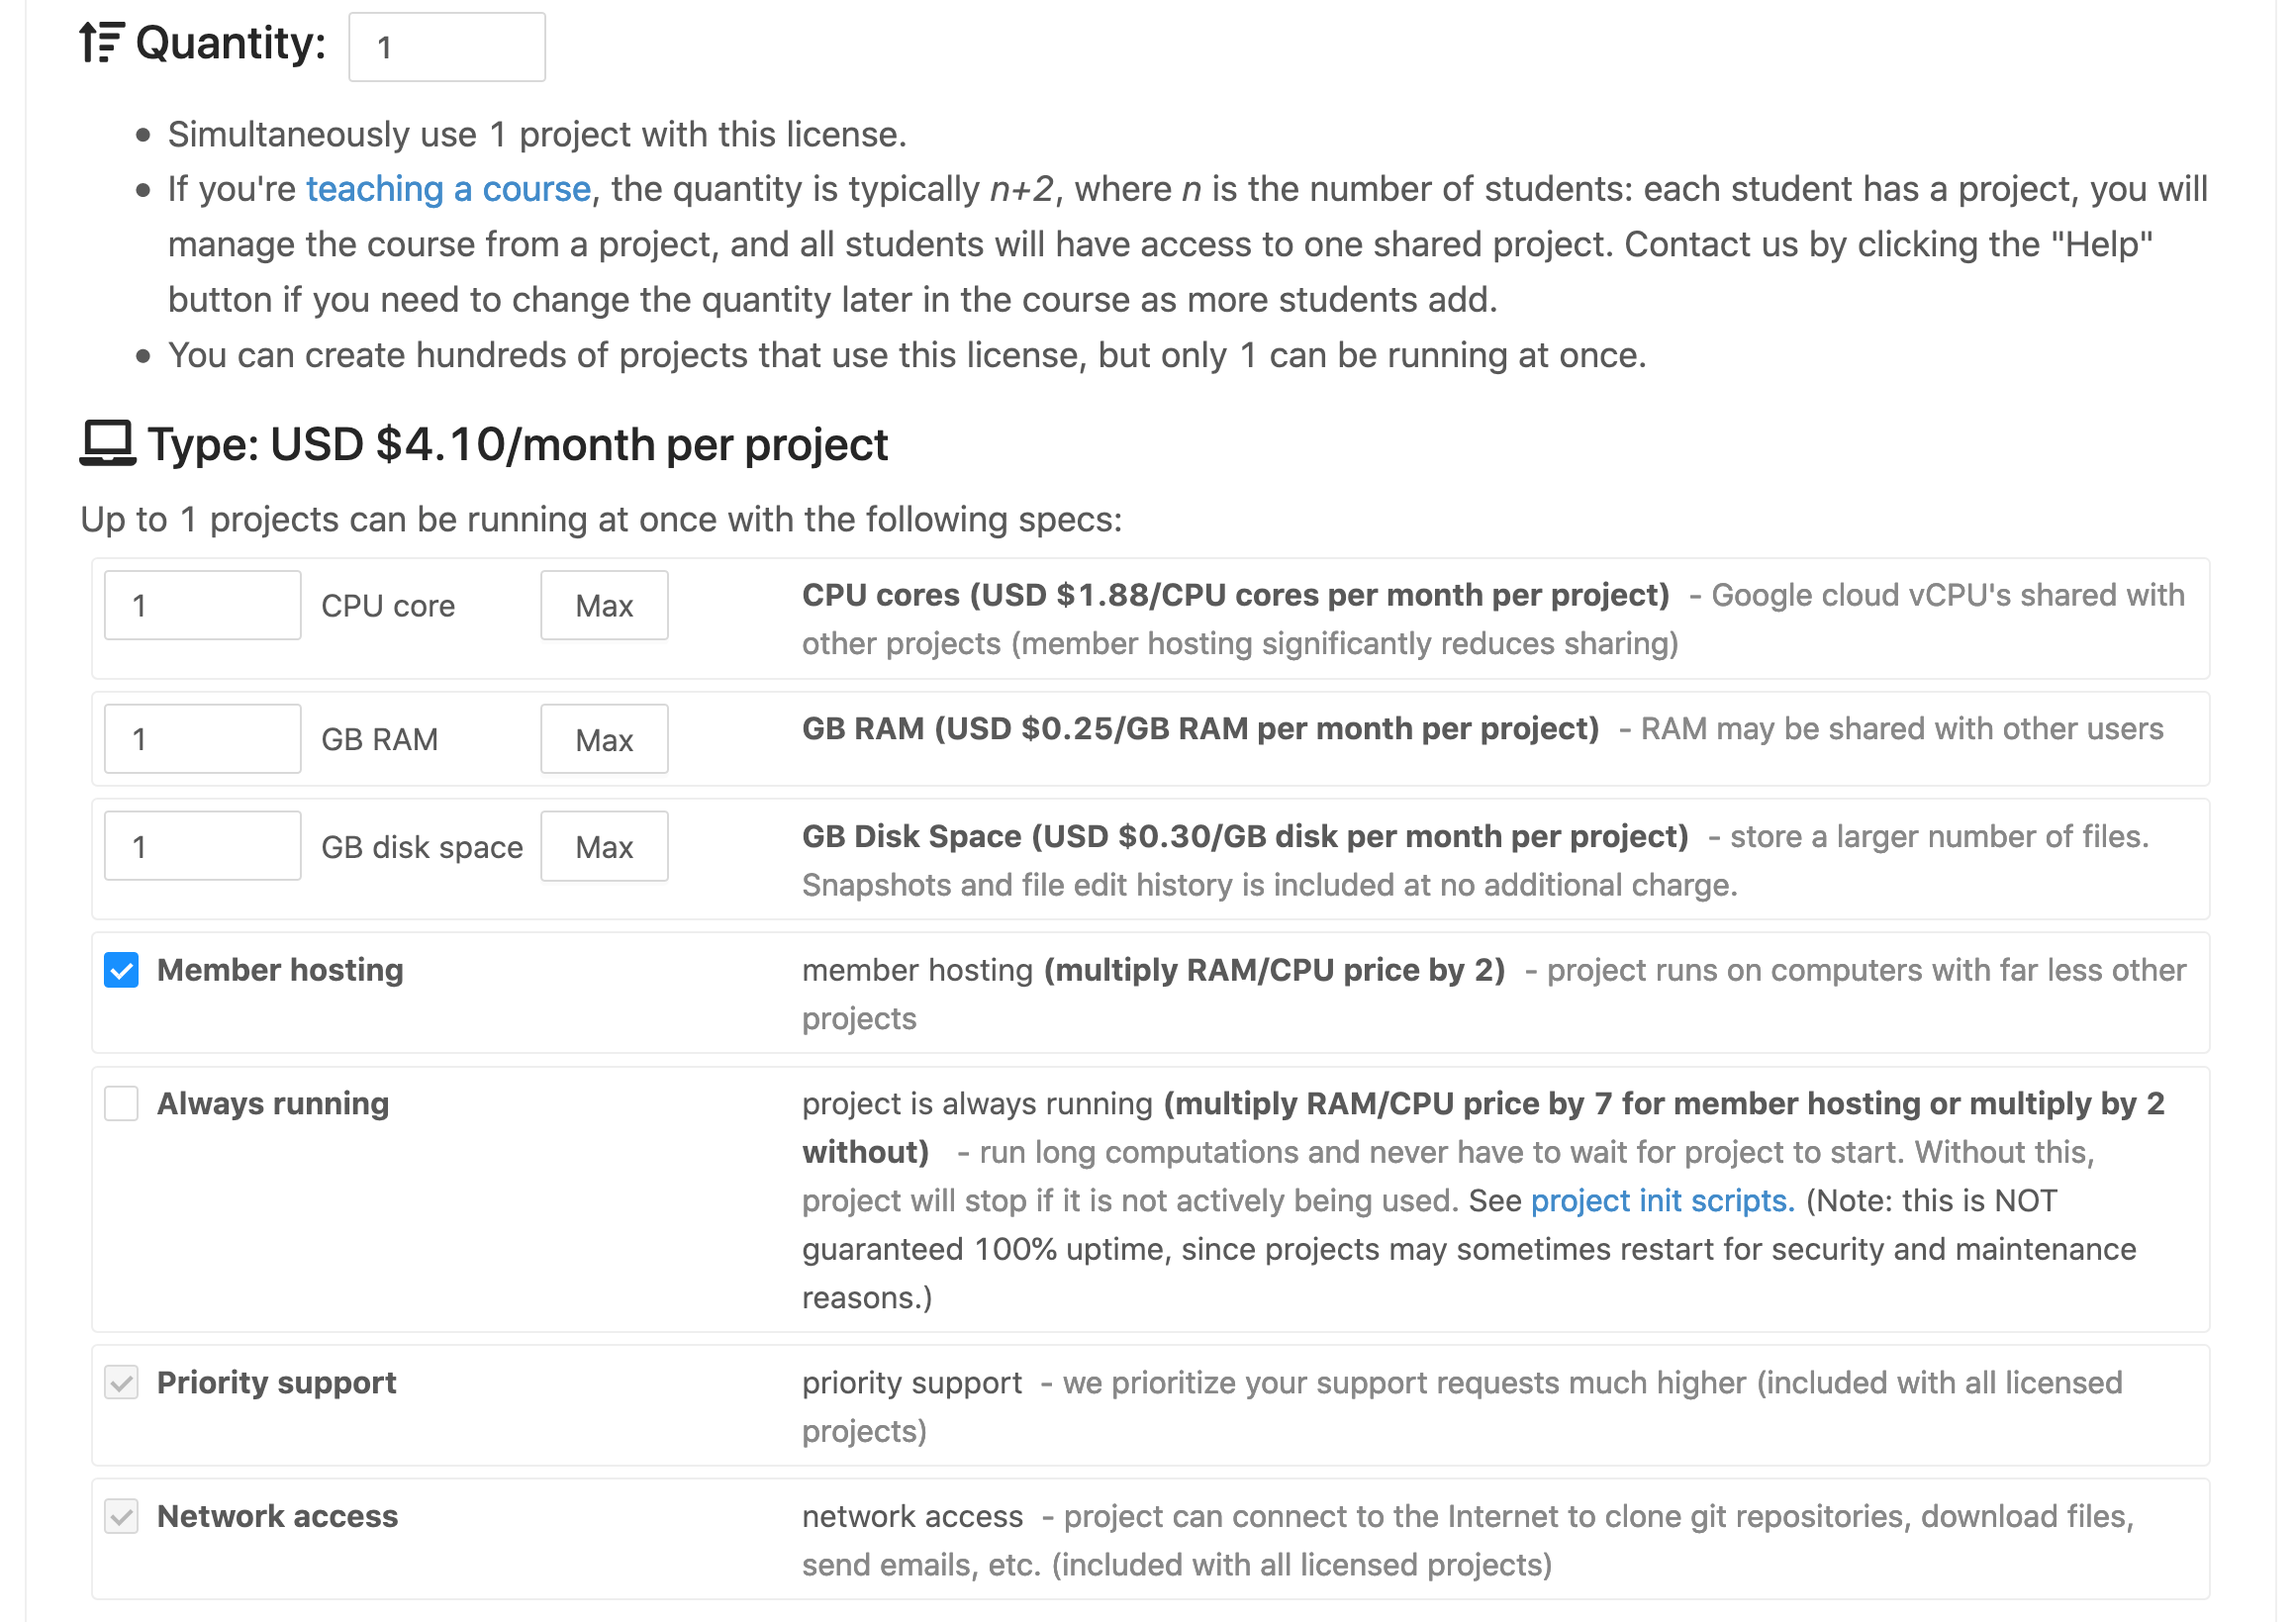
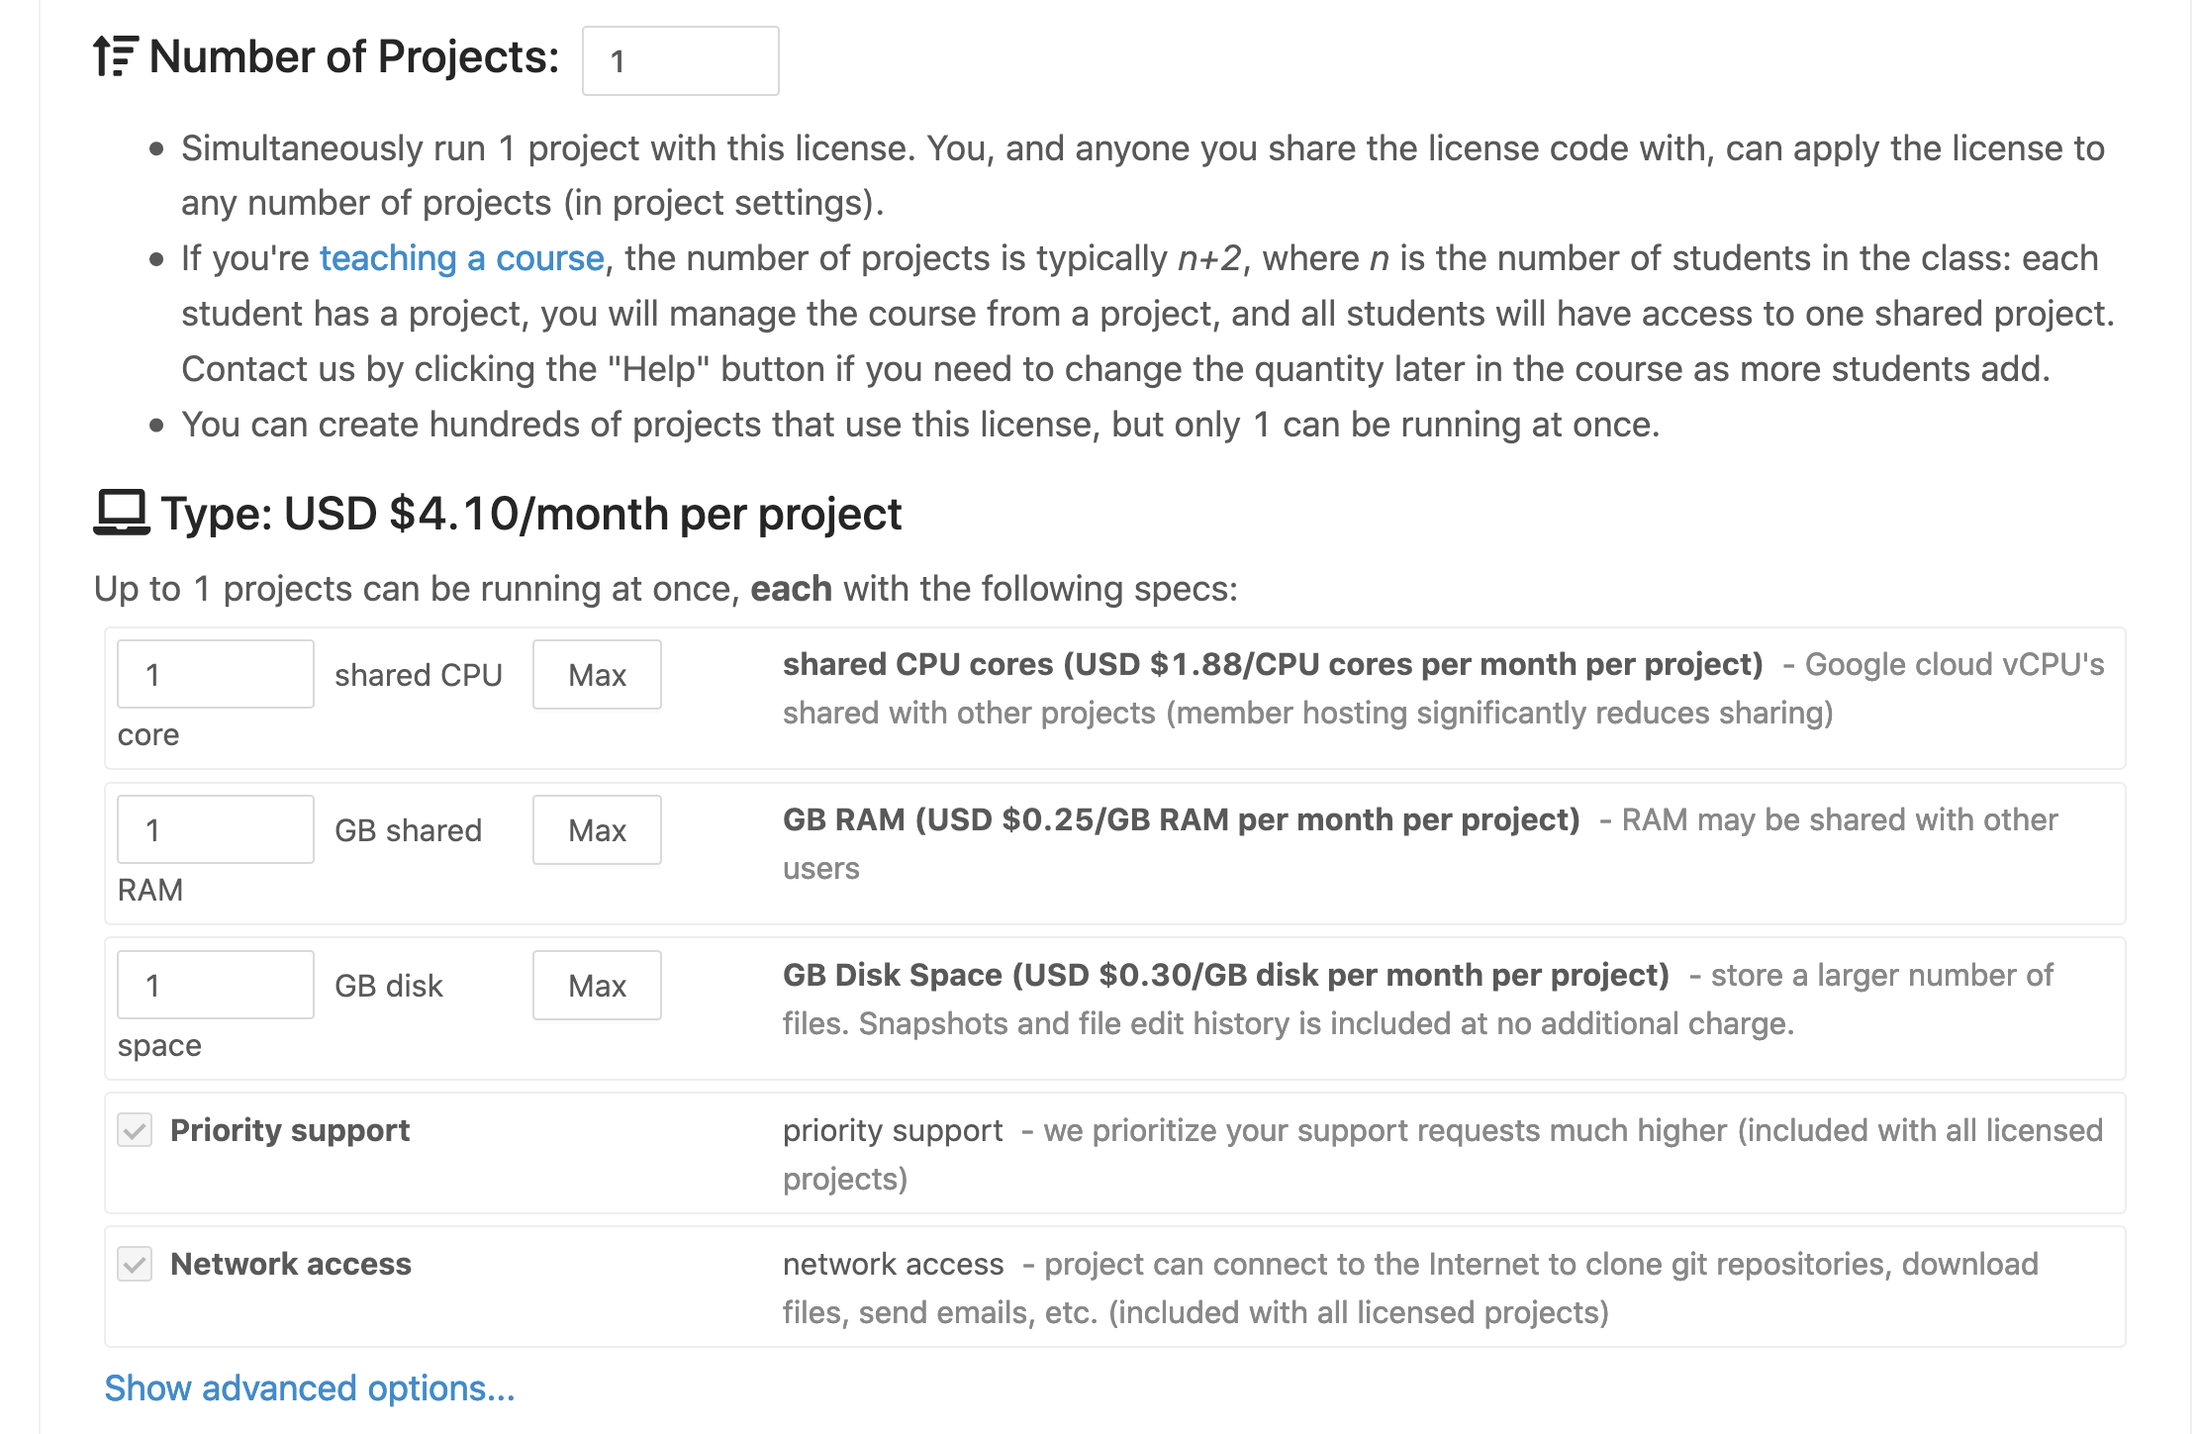
license advanced options, timezone

diff --git a/source/account/licenses.rst b/source/account/licenses.rst
@@ -36,10 +36,10 @@ Under **Discount**, click **Academic** if applicable, to enable a 40% discount (
 
 .. index:: Licenses; quantity and type
 
-Quantity and Type
------------------
+Number of Projects and Type
+--------------------------------------------
 
-For **Quantity**, enter the number of projects or students. This will be the maximum number of concurrently running projects that can use the license. Upgrades are applied to projects as they start, and released when projects stop. In a typical course, there is one project per student, plus a project for the instructor(s) and a shared project for the entire class to collaborate in. If your course has students working in groups,  then you might provide one project for each group (plus the instructor), instead of one per student.
+For **Number of Projects**, enter the number of projects or students. This will be the maximum number of concurrently running projects that can use the license. Upgrades are applied to projects as they start, and released when projects stop. In a typical course, there is one project per student, plus a project for the instructor(s) and a shared project for the entire class to collaborate in. If your course has students working in groups,  then you might provide one project for each group (plus the instructor), instead of one per student.
 
 For **Type**, enter the quota for each project. Usually, ``Member hosting`` is selected, because a major reason for upgrading is to move your work off the heavily-loaded trial servers. You might not select ``Member hosting`` if you plan to add a license to projects that already have Member hosting, to provide additional resources. Another reason to not select ``Member hosting`` is if you want to run a computation and need more memory or CPU, but are fine with using the spare cycles on the trial servers; combined with ``Always running``, this can be very powerful and affordable.
 
@@ -51,17 +51,34 @@ For **Type**, enter the quota for each project. Usually, ``Member hosting`` is s
 
 If you're not sure which upgrades to order, here are some suggestions:
 
-* Member hosting, 1 CPU, 1 GB of RAM, and 1 GB of disk space are generally enough for elementary subjects, such as learning programming syntax and introductory math courses.
-* Member hosting, 1 CPU, 2 GB of RAM, and 1 GB of disk space are often enough for intermediate-level courses.
+* 1 CPU, 1 GB of RAM, and 1 GB of disk space (with Member hosting, which is selected by default) are generally enough for elementary subjects, such as learning programming syntax and introductory math courses.
+* 1 CPU, 2 GB of RAM, and 1 GB of disk space (with Member hosting, which is selected by default) are often enough for intermediate-level courses.
 * There is no substitute for testing the computations you plan to run at a given resource level. You could buy a license for a small number of days to try things out. For instructors preparing to teach a course, we can provide a free trial that is valid for several days; just email help@cocalc.com for more information.
 * You might buy a license for a short period of time, e.g., if there is a 2-week part of a course that requires significantly more compute resources.
+
+.. index:: Licenses; advanced options
+
+Advanced options
+---------------------------------
+
+If you click "Show advanced options", two more choices appear.
+
+**Member hosting** is the most essential upgrade for most uses. It gets your projects off heavily-loaded, preemptible trial servers. For that reason, this option is enabled by default. In some rare situations, it can be advantageous to skip this option.
+
+The **Always running** option prevents your project from being stopped for an :ref:`idle timeout <idle-timeout-quota>`. This option increases cost, but can be useful in special situations for long-running computations. This option is disabled by default. Note that "Always running" does not guarantee 100% uptime, because projects may occasionally be restarted for security and maintenance reasons.
+
+.. figure:: img/settings/buy-lic-2a.png
+     :width: 90%
+     :align: center
+
+     ..
 
 .. index:: Licenses; period, title, cost, purchase
 
 Period, Title, Cost, and Purchase
 ---------------------------------
 
-For **Period**, specify when your license is to be active. There are discounts for licenses that will renew automatically every month or every year. Note that you can cancel renewal at any time; the license will continue to be valid through the current paid interval but will not auto-renew at the end of that interval. You can specify arbitrary start and end dates; unlike the older products, the license can start at a future date and the period does not have to be some exact number of weeks or months.
+For **Period**, specify when your license is to be active. There are discounts for licenses that will renew automatically every month or every year. Note that you can cancel renewal at any time; the license will continue to be valid through the current paid interval but will not auto-renew at the end of that interval. You can specify arbitrary start and end dates; unlike the older products, the license can start at a future date and the period does not have to be some exact number of weeks or months. Licenses start at 0:00 in your local time zone on the start date and end at 23:59 in your local time zone on the ending date.
 
 Use any descriptive text you want for **Title** and **Description**. You can easily change these later.
 
